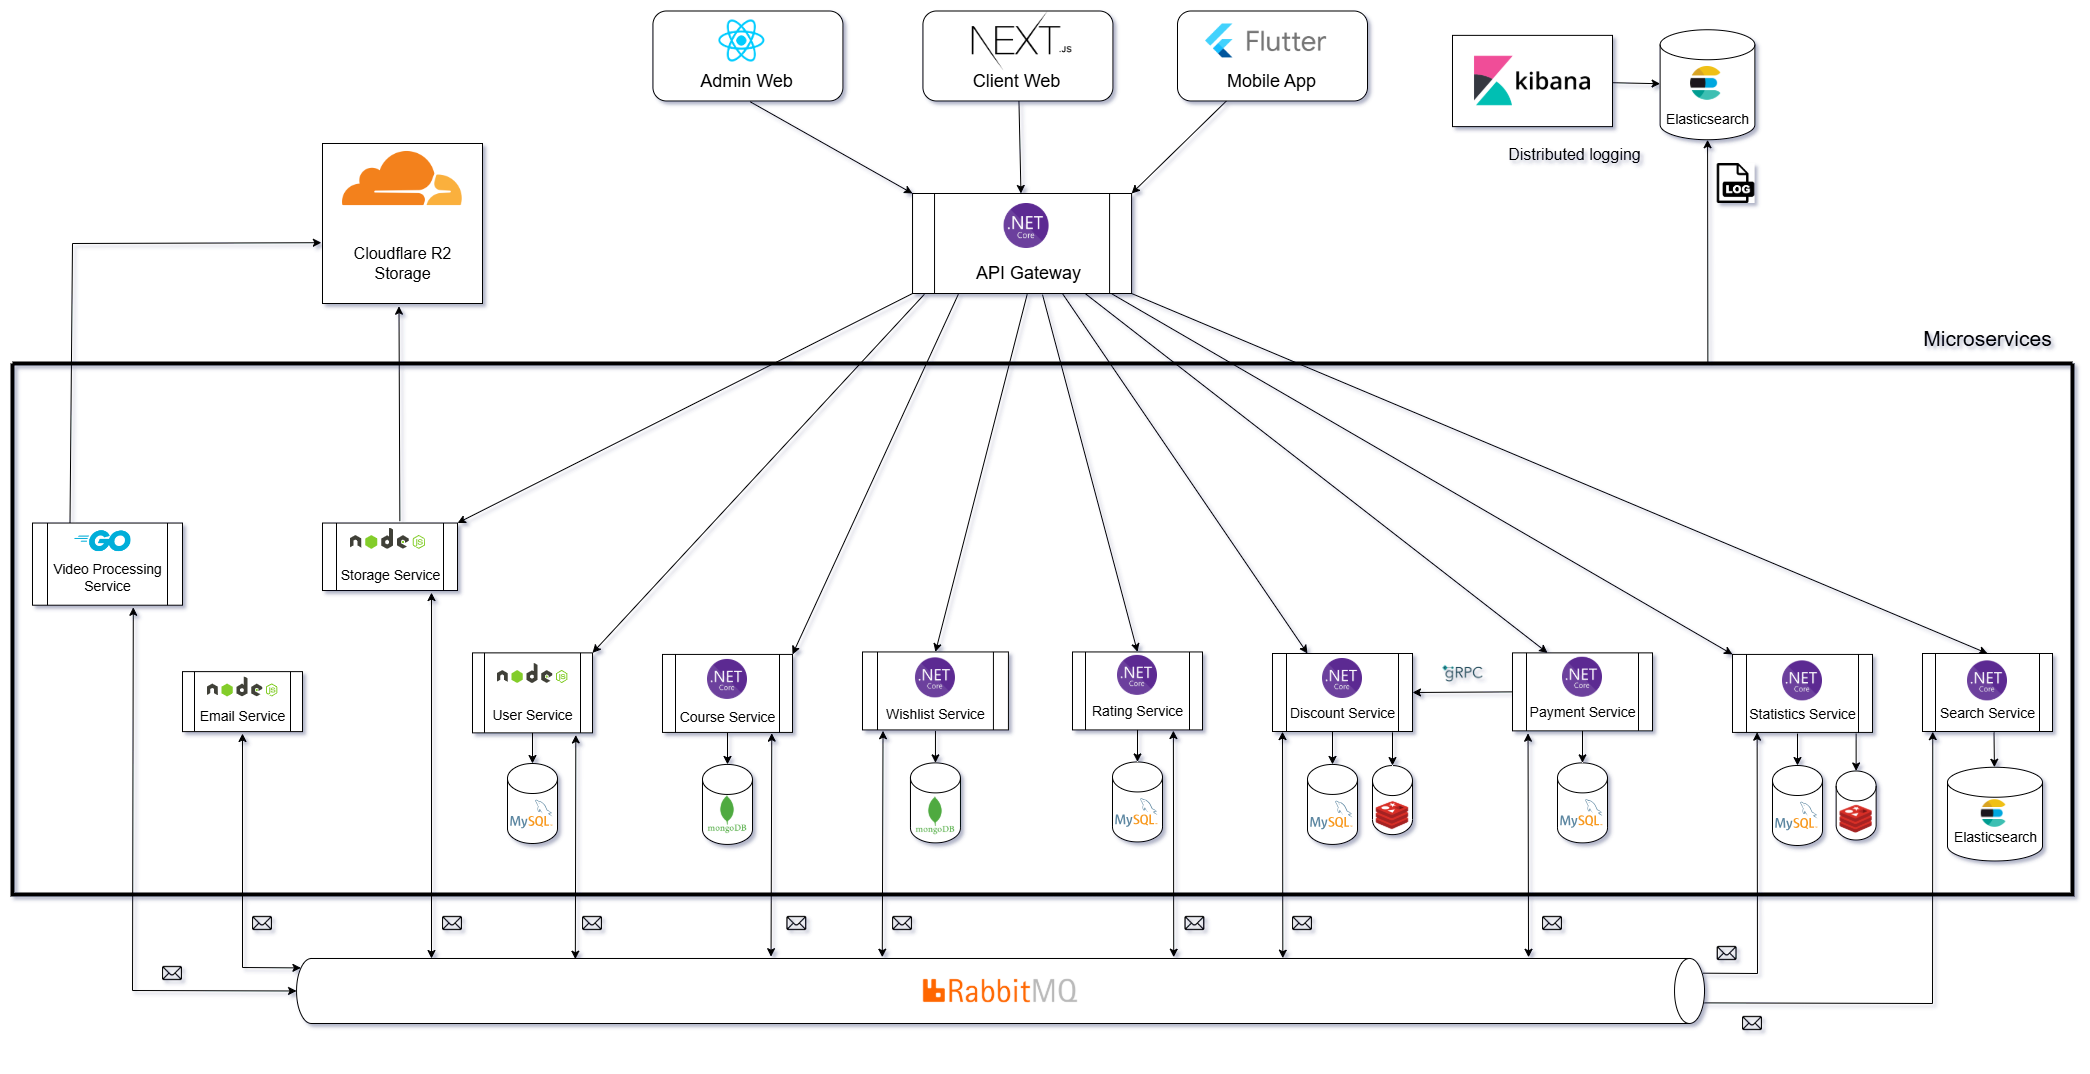
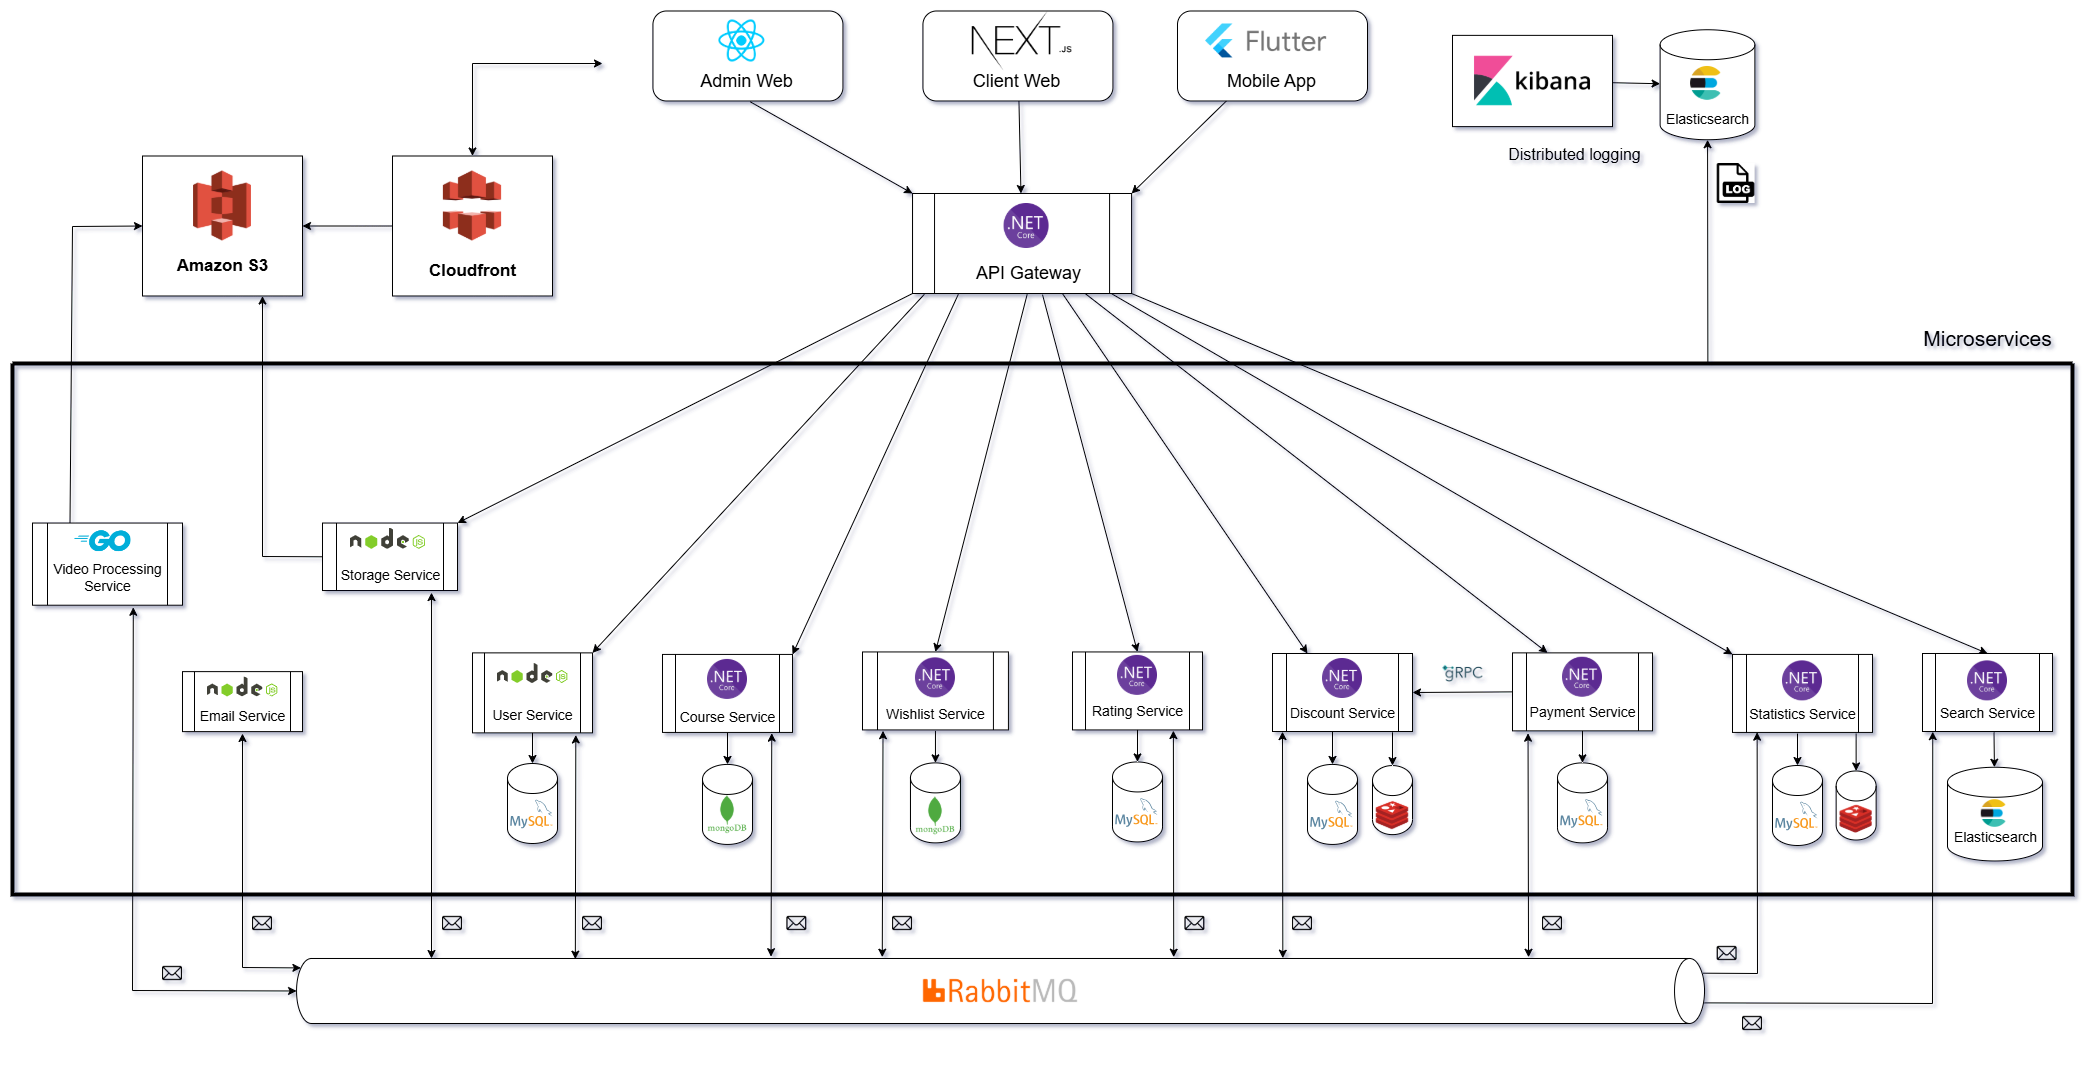
Edit images

Changed region(s): [[0.0622, 0.1229, 0.2799, 0.3073]]

diff --git a/README.md b/README.md
@@ -69,8 +69,8 @@ To run the backend and its necessary infrastructure, make sure that you have Doc
  - Google login: set the `GOOGLE_CLIENT_ID` and `GOOGLE_CLIENT_SECRET`  in **user_service/.env** file
  - Pay with paypal or link paypal account: provide your paypal clientid and secret to `.env` file in **user_service/** and **payment_service/**
  - Send email: provide SMTP configuration to `.env` file in **email_service/**
-  - Upload files: provide S3 configuration to `.env` file in **storage_service/**
-  - Video processing: provide S3 and Rclone configuration to `.env` file in **video_processing_service/**
+  - Upload, get files: provide AWS S3, Cloudfront configuration to `.env` file in **storage_service/** and Cloudfront key pair in **storage_service/cf-keypair/**
+  - Video processing: provide AWS S3 and Rclone configuration to `.env` file in **video_processing_service/**
 
 Navigate to the **deployments** directory and run the following commands:
 
